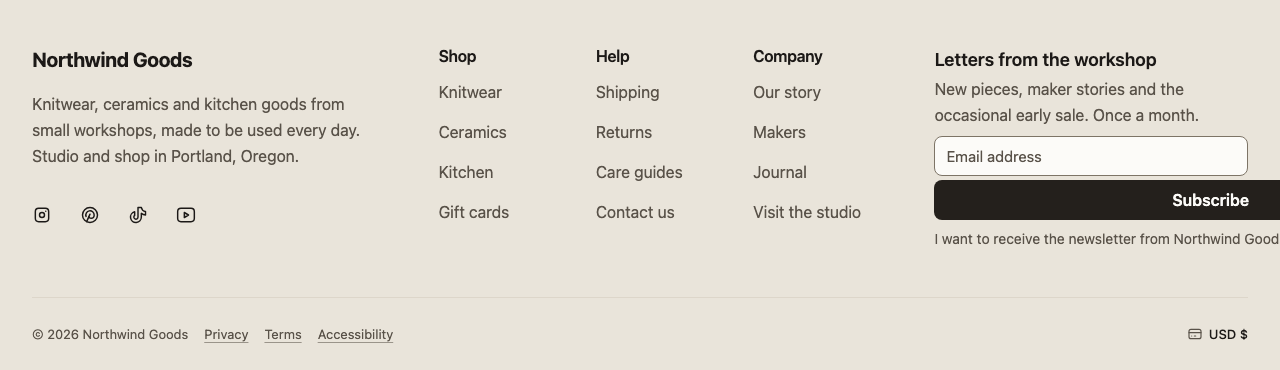
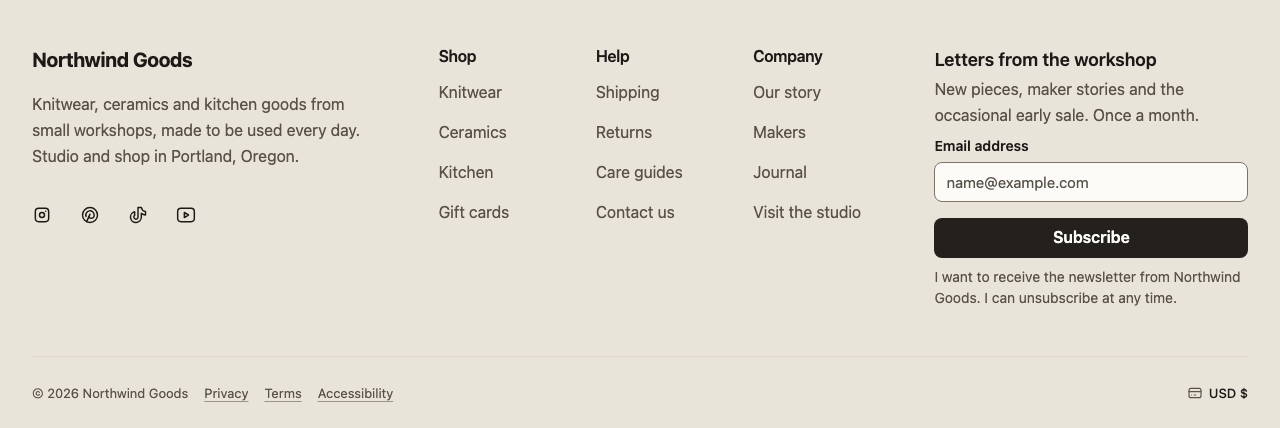
fix(starter-nuxt): footer sign-up layout, error placement and placeholder (#67)
* fix(starter-nuxt): keep the footer sign-up button inside its column

The footer's sign-up actions were an auto-column grid, so its column sized to the
consent sentence's max-content and the button grew wider than the footer column it
sits in. Give the grid one minmax(0,1fr) column.

* fix(starter-nuxt): size the footer sign-up actions row to the form

The library's actions row is shrink-0 with an auto width, so it took the consent
sentence's one-line width; give it w-full in the footer form.

* fix(starter-nuxt): space the footer sign-up button off its field

* fix(starter-nuxt): footer sign-up keeps its error under the field and shows the form's placeholder

The field wrapper is display: contents, which made its error a flex item of its own
that landed after the button row; render it as a block. The input also showed the
field's label as its placeholder; use the placeholder configured on the form's email
field and fall back to the label.

* fix(starter-nuxt): footer sign-up shows the form's own email label

* style(starter-nuxt): format the footer spec

* chore(starter-nuxt): refresh the footer block preview

* chore(starter-nuxt): mirror the refreshed footer preview

---------

diff --git a/examples/starter-nuxt/blocks/footer/__tests__/Block.spec.ts b/examples/starter-nuxt/blocks/footer/__tests__/Block.spec.ts
@@ -1,4 +1,5 @@
 // @vitest-environment jsdom
+import { computed } from 'vue';
 import { flushPromises, mount } from '@vue/test-utils';
 import { afterEach, describe, expect, it, vi } from 'vitest';
 import { ELDRA_KEY, type EldraLocaleState } from '@eldrajs/theme-vue';
@@ -11,6 +12,7 @@ import { STOREFRONT_KEY } from '../../../app/storefront/types';
 import type {
   StorefrontCommerce,
   StorefrontFormSubmitResult,
+  StorefrontSource,
   StorefrontForms,
 } from '../../../app/storefront/types';
 import { createDemoStorefront } from '../../../app/storefront/demo';
@@ -79,6 +81,8 @@ function mountFooter(
   options: {
     failForms?: boolean;
     subscribe?: StorefrontForms['submit'];
+    /** A whole storefront, for a spec that needs a form definition the demo does not have. */
+    storefront?: StorefrontSource;
     /** Turn Cloudflare Turnstile on for the sign-up form (with `subscribe` as its submit). */
     turnstile?: boolean;
     /** Studio's edit mode — what `useEditing()` reads, and the only state that shows hints. */
@@ -113,14 +117,15 @@ function mountFooter(
     context.preview.mode = 'edit';
   }
   const storefront =
-    options.subscribe && options.turnstile
+    options.storefront ??
+    (options.subscribe && options.turnstile
       ? storefrontWithTurnstile(options.subscribe)
       : options.subscribe
         ? (() => {
             const demo = createDemoStorefront();
             return { ...demo, forms: { ...demo.forms, submit: options.subscribe! } };
           })()
-        : undefined;
+        : undefined);
   return mount(Block, {
     ...base,
     // Real focus tracking (`document.activeElement`, and `Select`'s own focus-return behaviour)
@@ -316,7 +321,67 @@ describe('footer block', () => {
     const label = wrapper.find(`label[for="${id}"]`);
     expect(label.exists()).toBe(true);
     expect(label.text()).toBe(enUS.footer.emailLabel);
-    expect(label.classes()).toContain('sr-only');
+    expect(label.classes()).not.toContain('sr-only');
+  });
+
+  it("labels the email field with the form definition's own label", async () => {
+    const demo = createDemoStorefront();
+    const storefront = {
+      ...demo,
+      forms: {
+        ...demo.forms,
+        definition: (key: string) => {
+          const result = demo.forms.definition(key);
+          return {
+            ...result,
+            data: computed(() =>
+              result.data.value === null
+                ? null
+                : {
+                    ...result.data.value,
+                    fields: result.data.value.fields.map((field) =>
+                      field.type === 'email' ? { ...field, label: 'Where should we write?' } : field
+                    ),
+                  }
+            ) as typeof result.data,
+          };
+        },
+      },
+    };
+    const wrapper = mountFooter(mock, { storefront });
+    await flushPromises();
+    const input = wrapper.get('input[type="email"]');
+    expect(wrapper.get(`label[for="${input.attributes('id')}"]`).text()).toBe(
+      'Where should we write?'
+    );
+  });
+
+  it("shows the placeholder the form's email field carries, not its label", async () => {
+    const wrapper = mountFooter(mock);
+    await flushPromises();
+    expect(wrapper.get('input[type="email"]').attributes('placeholder')).toBe('name@example.com');
+  });
+
+  it('keeps the email error in the field cell, directly under the input', async () => {
+    const wrapper = mountFooter(mock);
+    await flushPromises();
+    // The field wrapper is `display: contents` by default, which turns its error into a flex item of
+    // its own that lands after the button row; a real block keeps the two together.
+    const cell = wrapper.get('input[type="email"]').element.closest('.content-start');
+    expect(cell?.parentElement?.classList.contains('block')).toBe(true);
+  });
+
+  it('keeps the sign-up button and its consent sentence in one column as wide as the form', async () => {
+    const wrapper = mountFooter(mock);
+    await flushPromises();
+    // The library's actions row is `shrink-0` and the grid's auto column follows the sentence's
+    // max-content, so both pushed the button past the footer column; happy-dom has no layout,
+    // so this guards the two classes that prevent it.
+    const actions = wrapper.get('[data-part="consent-sentence"]').element.parentElement;
+    expect(actions?.classList.contains('grid-cols-[minmax(0,1fr)]')).toBe(true);
+    expect(actions?.parentElement?.classList.contains('w-full')).toBe(true);
+    // The form's own 0.25rem row gap leaves the button touching the field; the row adds the rest.
+    expect(actions?.parentElement?.classList.contains('mt-3')).toBe(true);
   });
 
   it('shows the platform consent sentence under the sign-up button, tied to it with aria-describedby', async () => {

diff --git a/examples/starter-nuxt/blocks/footer/Block.vue b/examples/starter-nuxt/blocks/footer/Block.vue
@@ -316,6 +316,7 @@ const showNewsletter = computed(
 );
 // Only a footer that shows the sign-up reads the form's definition (its honeypot and Turnstile).
 const {
+  definition,
   honeypot,
   honeypotField,
   siteKey,
@@ -326,6 +327,11 @@ const {
   reset,
 } = useFormSpam(computed(() => (showNewsletter.value ? NEWSLETTER_FORM_KEY : '')));
 const consentSentenceId = `footer-consent-sentence-${useUiId()}`;
+// The merchant's own label and placeholder on the form's email field; the theme's wording stands in until the
+// definition has loaded.
+const emailField = computed(() => definition.value?.fields.find((field) => field.type === 'email'));
+const emailLabel = computed(() => emailField.value?.label || t('footer.emailLabel'));
+const emailPlaceholder = computed(() => emailField.value?.placeholder || undefined);
 
 /** Mirrors `blocks/newsletter/Block.vue`'s own comment: an error has to clear itself the moment
  *  its own condition is fixed (the visitor edits the address), not only inside a later successful
@@ -521,6 +527,7 @@ async function onNewsletterSubmit(payload: FormLayoutSubmitPayload): Promise<voi
               :heading-level="3"
               :aria-label="data.newsletterTitle ? undefined : t('footer.newsletterAriaLabel')"
               :submitting="newsletterState === 'submitting'"
+              :classes="{ actions: 'w-full mt-3' }"
               @submit="onNewsletterSubmit"
               @invalid="onNewsletterInvalid"
             >
@@ -532,23 +539,23 @@ async function onNewsletterSubmit(payload: FormLayoutSubmitPayload): Promise<voi
               </p>
               <div ref="emailFieldRoot" class="contents">
                 <FieldWrapper
-                  :label="t('footer.emailLabel')"
+                  :label="emailLabel"
                   :error="emailError ?? undefined"
-                  :classes="{ label: 'sr-only' }"
+                  :classes="{ root: 'block w-full' }"
                 >
                   <Input
                     v-model="email"
                     type="email"
                     name="email"
                     autocomplete="email"
-                    :placeholder="t('footer.emailLabel')"
+                    :placeholder="emailPlaceholder"
                   />
                 </FieldWrapper>
               </div>
               <FormHoneypot v-model="honeypot" :name="honeypotField" />
               <div v-if="siteKey" ref="turnstileRoot" class="w-full" />
               <template #actions>
-                <div class="grid w-full gap-2">
+                <div class="grid w-full grid-cols-[minmax(0,1fr)] gap-2">
                   <Button
                     type="submit"
                     variant="primary"

diff --git a/examples/starter-nuxt/app/composables/useFormSpam.ts b/examples/starter-nuxt/app/composables/useFormSpam.ts
@@ -43,6 +43,7 @@ export function useFormSpam(formKey: Ref<string>) {
   }
 
   return {
+    definition: definition.data,
     honeypot,
     honeypotField,
     siteKey,
